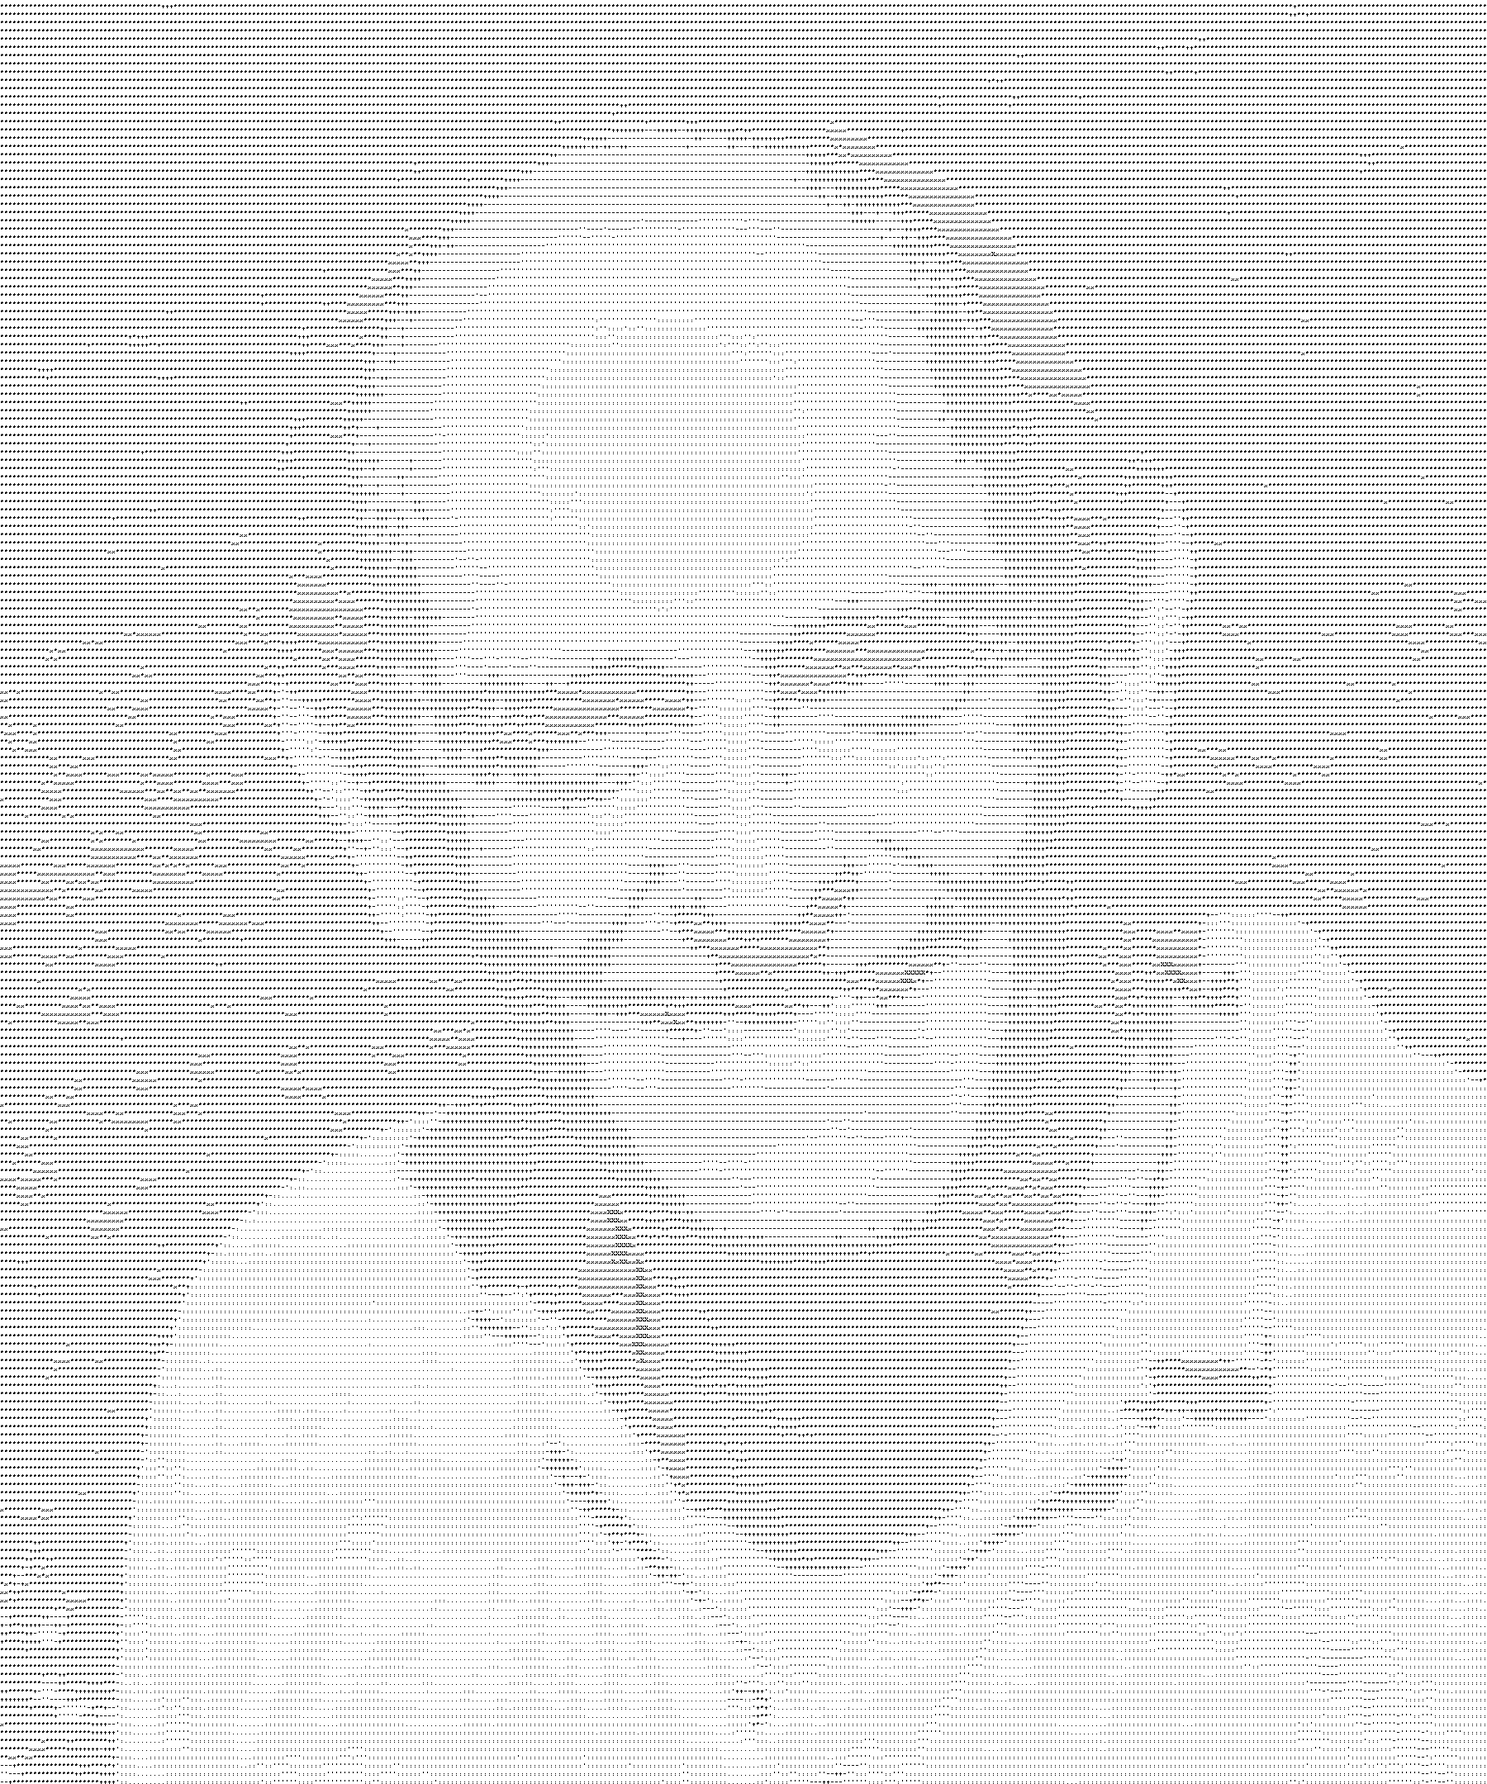
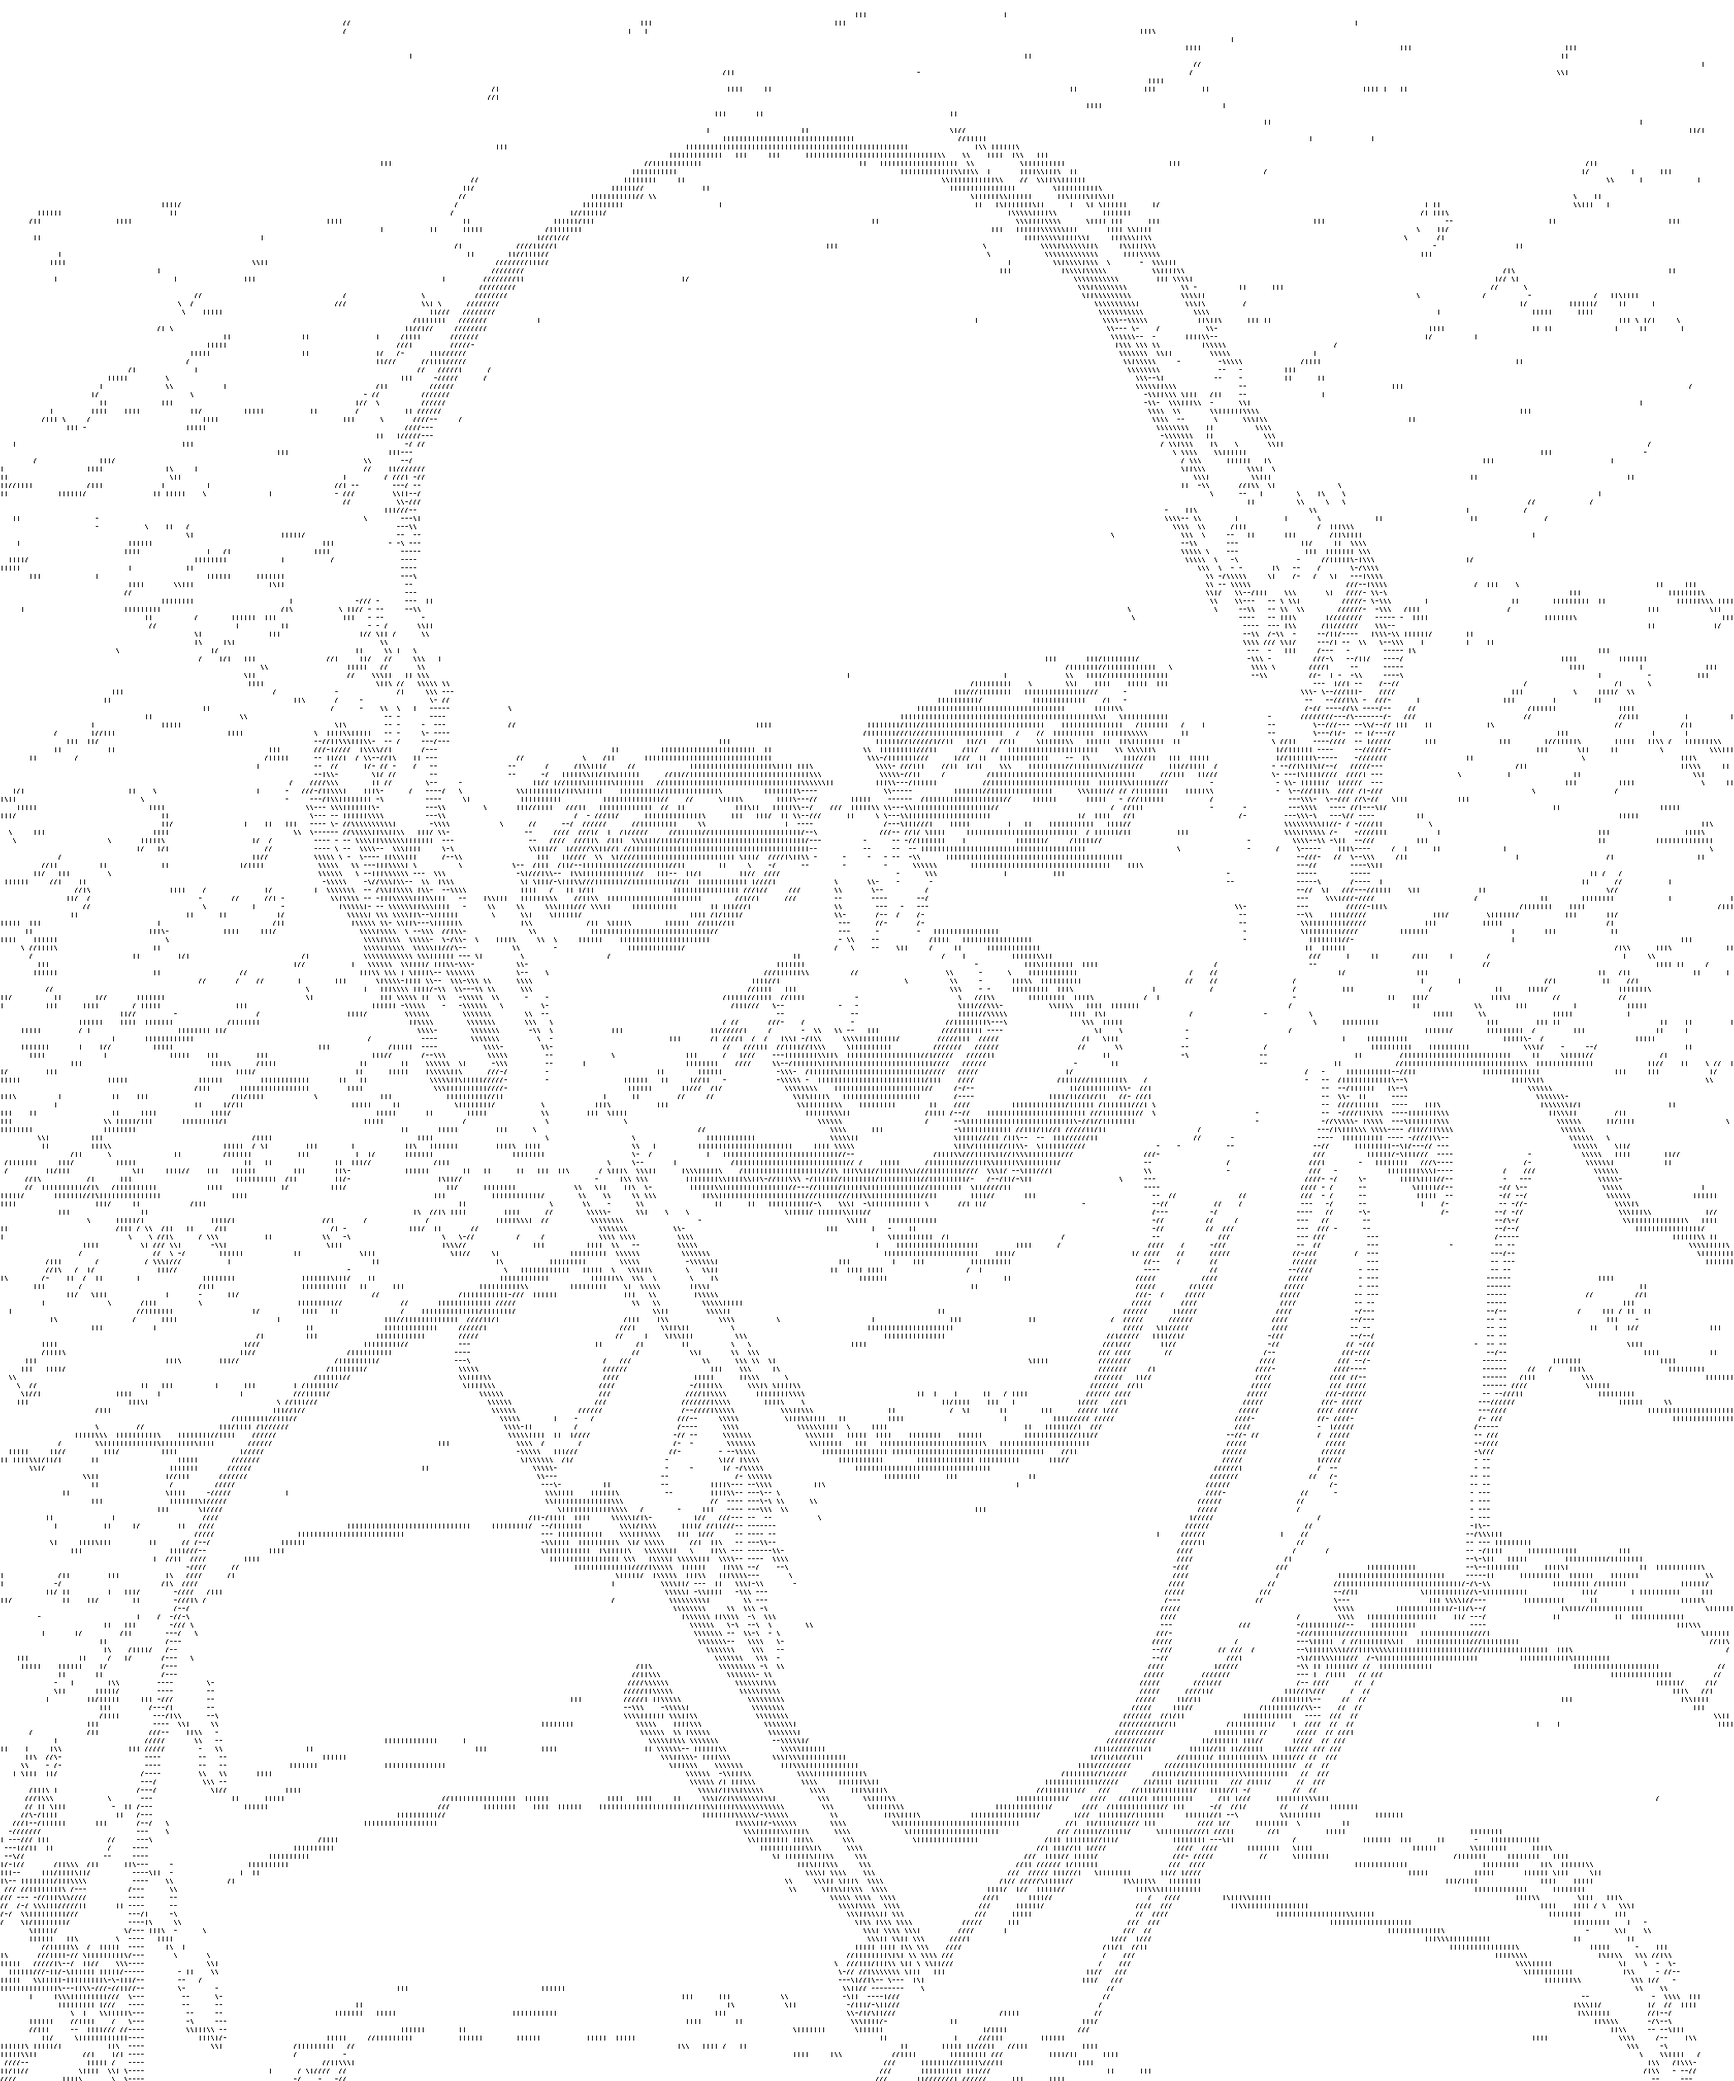
Added linear ascii-art as additional output

diff --git a/src/main/java/dc/Main.java b/src/main/java/dc/Main.java
@@ -14,18 +14,18 @@ public class Main {
     public static void main(String[] args) throws IOException {
         Scanner sc = new Scanner(System.in);
 
-        System.out.print("Podaj nazwę pliku PNG (np. Darek.png): ");
+        System.out.print("Get file name PNG (np. Darek.png): ");
         String inputFile = sc.nextLine().trim();
         inputFile = inputFile + ".png";
         String outputFile = inputFile + ".out.png";
 
-        System.out.print("Podaj szerokość (np. 240–680, Enter = 360): ");
+        System.out.print("Get columns (eg. 240–680, Enter = 360): ");
         int cols = getIntInput(sc, 360, 240, 800);
 
-        System.out.print("Gamma korekcja (0.6–1.2, Enter = 0.8): ");
+        System.out.print("Gamma correction (0.6–1.2, Enter = 0.8): ");
         double gamma = getDoubleInput(sc, 0.8, 0.5, 1.8);
 
-        System.out.print("Tryb negatywu (Y/N): ");
+        System.out.print("Negative (Y/N): ");
         boolean negative = sc.nextLine().trim().equalsIgnoreCase("Y");
 
         String fontName = "Courier New";
@@ -36,10 +36,11 @@ public class Main {
         String[] asciiData = imageToAscii(inputImage, cols, DEFAULT_CHARS, gamma, negative);
         String[] asciiData2 = imageToAsciiEdges(inputImage, cols);
         BufferedImage outputImage = renderAsciiToImage(asciiData, fontName, fontSize, negative);
-        BufferedImage outputImage2 = renderAsciiToImage(asciiData, fontName, fontSize, negative);
+        BufferedImage outputImage2 = renderAsciiToImage(asciiData2, fontName, fontSize, negative);
         ImageIO.write(outputImage, "png", new File(outputFile));
+        System.out.println("✅ Ready! Written as " + outputFile);
         ImageIO.write(outputImage2, "png", new File(outputFile + ".png"));
-        System.out.println("✅ Gotowe! Zapisano jako " + outputFile);
+        System.out.println("✅ Ready! Written as linear" + outputFile + ".png");
     }
 
     private static String[] imageToAscii(BufferedImage image, int cols, String chars, double gamma, boolean negative) {
@@ -135,14 +136,18 @@ public class Main {
         }
     }
 
-    /** Tworzy ASCII-art oparty na krawędziach obrazu (linie / \ - | .) */
+    /** Tworzy ASCII-art oparty na krawędziach obrazu (linie / \ - | .)
+     *  Poprawiona wersja: wypełnia wszystkie wiersze i ma dokładnie `cols` znaków na wiersz.
+     */
     private static String[] imageToAsciiEdges(BufferedImage image, int cols) {
         int width = image.getWidth();
         int height = image.getHeight();
         double aspectRatio = 0.5;
         int rows = (int) (height * cols / (double) width * aspectRatio);
+        if (rows < 3) rows = 3;
+        if (cols < 3) cols = 3;
 
-        // przeskaluj obraz do mniejszej rozdzielczości dla ASCII
+        // przeskaluj obraz do mniejszej rozdzielczości dla ASCII (GRAY)
         BufferedImage scaled = new BufferedImage(cols, rows, BufferedImage.TYPE_BYTE_GRAY);
         Graphics2D g2d = scaled.createGraphics();
         g2d.drawImage(image, 0, 0, cols, rows, null);
@@ -152,44 +157,54 @@ public class Main {
         int[][] gray = new int[rows][cols];
         for (int y = 0; y < rows; y++) {
             for (int x = 0; x < cols; x++) {
-                int rgb = scaled.getRGB(x, y);
-                int r = (rgb >> 16) & 0xFF;
-                int g = (rgb >> 8) & 0xFF;
-                int b = rgb & 0xFF;
-                gray[y][x] = (int)(0.299 * r + 0.587 * g + 0.114 * b);
+                int rgb = scaled.getRGB(x, y) & 0xFF; // grayscale => lower byte
+                gray[y][x] = rgb;
             }
         }
 
         String[] ascii = new String[rows];
-        for (int y = 1; y < rows - 1; y++) {
-            StringBuilder sb = new StringBuilder();
-            for (int x = 1; x < cols - 1; x++) {
-                int gx =
-                        -1 * gray[y - 1][x - 1] + 1 * gray[y - 1][x + 1]
-                                + -2 * gray[y][x - 1]     + 2 * gray[y][x + 1]
-                                + -1 * gray[y + 1][x - 1] + 1 * gray[y + 1][x + 1];
-                int gy =
-                        -1 * gray[y - 1][x - 1] + -2 * gray[y - 1][x] + -1 * gray[y - 1][x + 1]
-                                +  1 * gray[y + 1][x - 1] +  2 * gray[y + 1][x] +  1 * gray[y + 1][x + 1];
 
-                double mag = Math.sqrt(gx * gx + gy * gy);
-                double angle = Math.atan2(gy, gx); // w radianach
+        // próg magnitudy krawędzi - możesz go wyeksponować jako parametr
+        final double EDGE_THRESHOLD = 40.0;
+
+        for (int y = 0; y < rows; y++) {
+            StringBuilder sb = new StringBuilder(cols);
+            for (int x = 0; x < cols; x++) {
+                // obsługa brzegów: użyj klamping (powiel skrajny piksel)
+                int xm1 = Math.max(0, x - 1), xp1 = Math.min(cols - 1, x + 1);
+                int ym1 = Math.max(0, y - 1), yp1 = Math.min(rows - 1, y + 1);
+
+                int gx =
+                        -1 * gray[ym1][xm1] + 1 * gray[ym1][xp1]
+                                + -2 * gray[y][xm1]     + 2 * gray[y][xp1]
+                                + -1 * gray[yp1][xm1] + 1 * gray[yp1][xp1];
+
+                int gy =
+                        -1 * gray[ym1][xm1] + -2 * gray[ym1][x] + -1 * gray[ym1][xp1]
+                                +  1 * gray[yp1][xm1] +  2 * gray[yp1][x] +  1 * gray[yp1][xp1];
+
+                double mag = Math.sqrt((double)gx * gx + (double)gy * gy);
 
                 char c;
-                if (mag < 40) c = ' ';
-                else {
-                    double deg = Math.toDegrees(angle);
-                    if (deg < 0) deg += 180;
-                    if (deg < 22.5 || deg >= 157.5) c = '-';
-                    else if (deg < 67.5) c = '/';
-                    else if (deg < 112.5) c = '|';
+                if (mag < EDGE_THRESHOLD) {
+                    c = ' '; // brak wyraźnej krawędzi
+                } else {
+                    double angle = Math.toDegrees(Math.atan2(gy, gx));
+                    if (angle < 0) angle += 180; // rozmiar kąta 0..180 wystarczy
+                    // rozdzielamy kąty w 4 sektory: -, /, |, \
+                    if (angle < 22.5 || angle >= 157.5) c = '-';
+                    else if (angle < 67.5) c = '/';
+                    else if (angle < 112.5) c = '|';
                     else c = '\\';
                 }
-
                 sb.append(c);
             }
+            // zapewniamy że każda linia ma dokładnie cols znaków
+            while (sb.length() < cols) sb.append(' ');
+            if (sb.length() > cols) sb.setLength(cols);
             ascii[y] = sb.toString();
         }
+
         return ascii;
     }
 }
